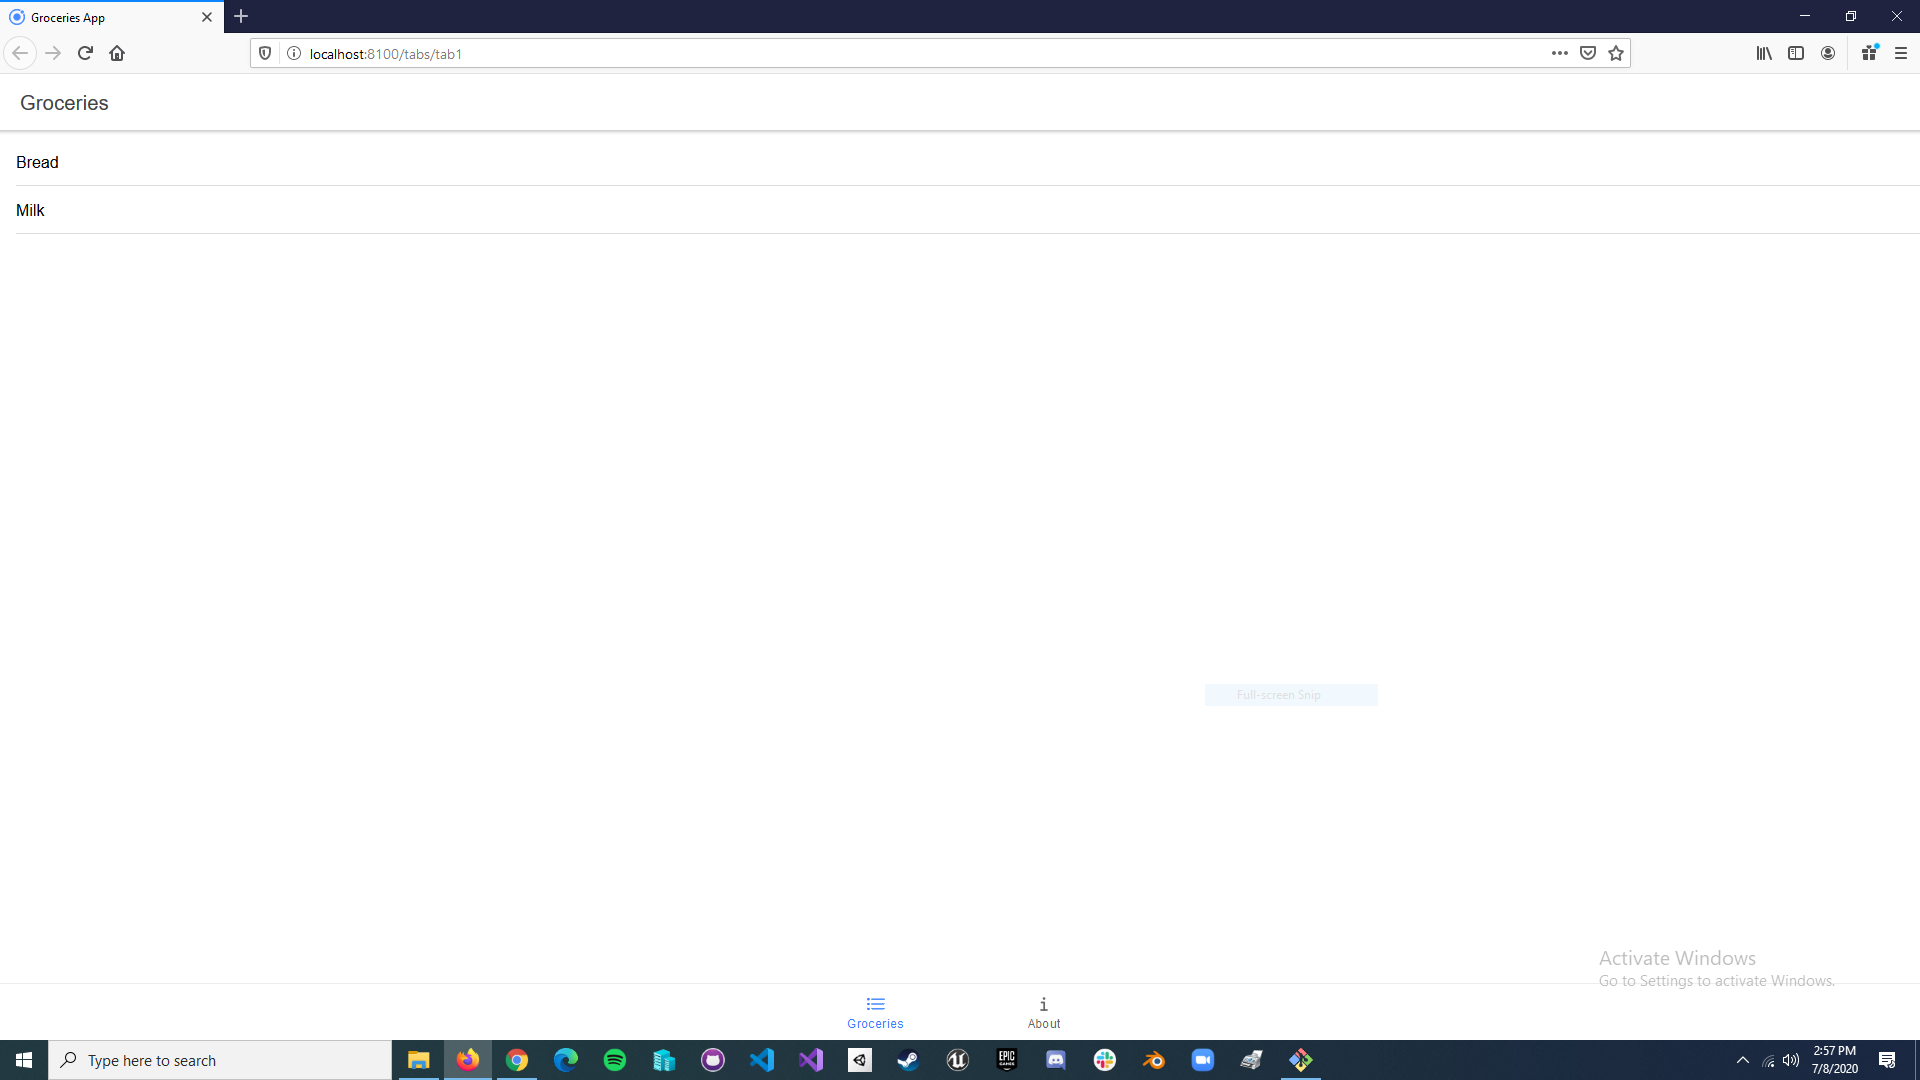
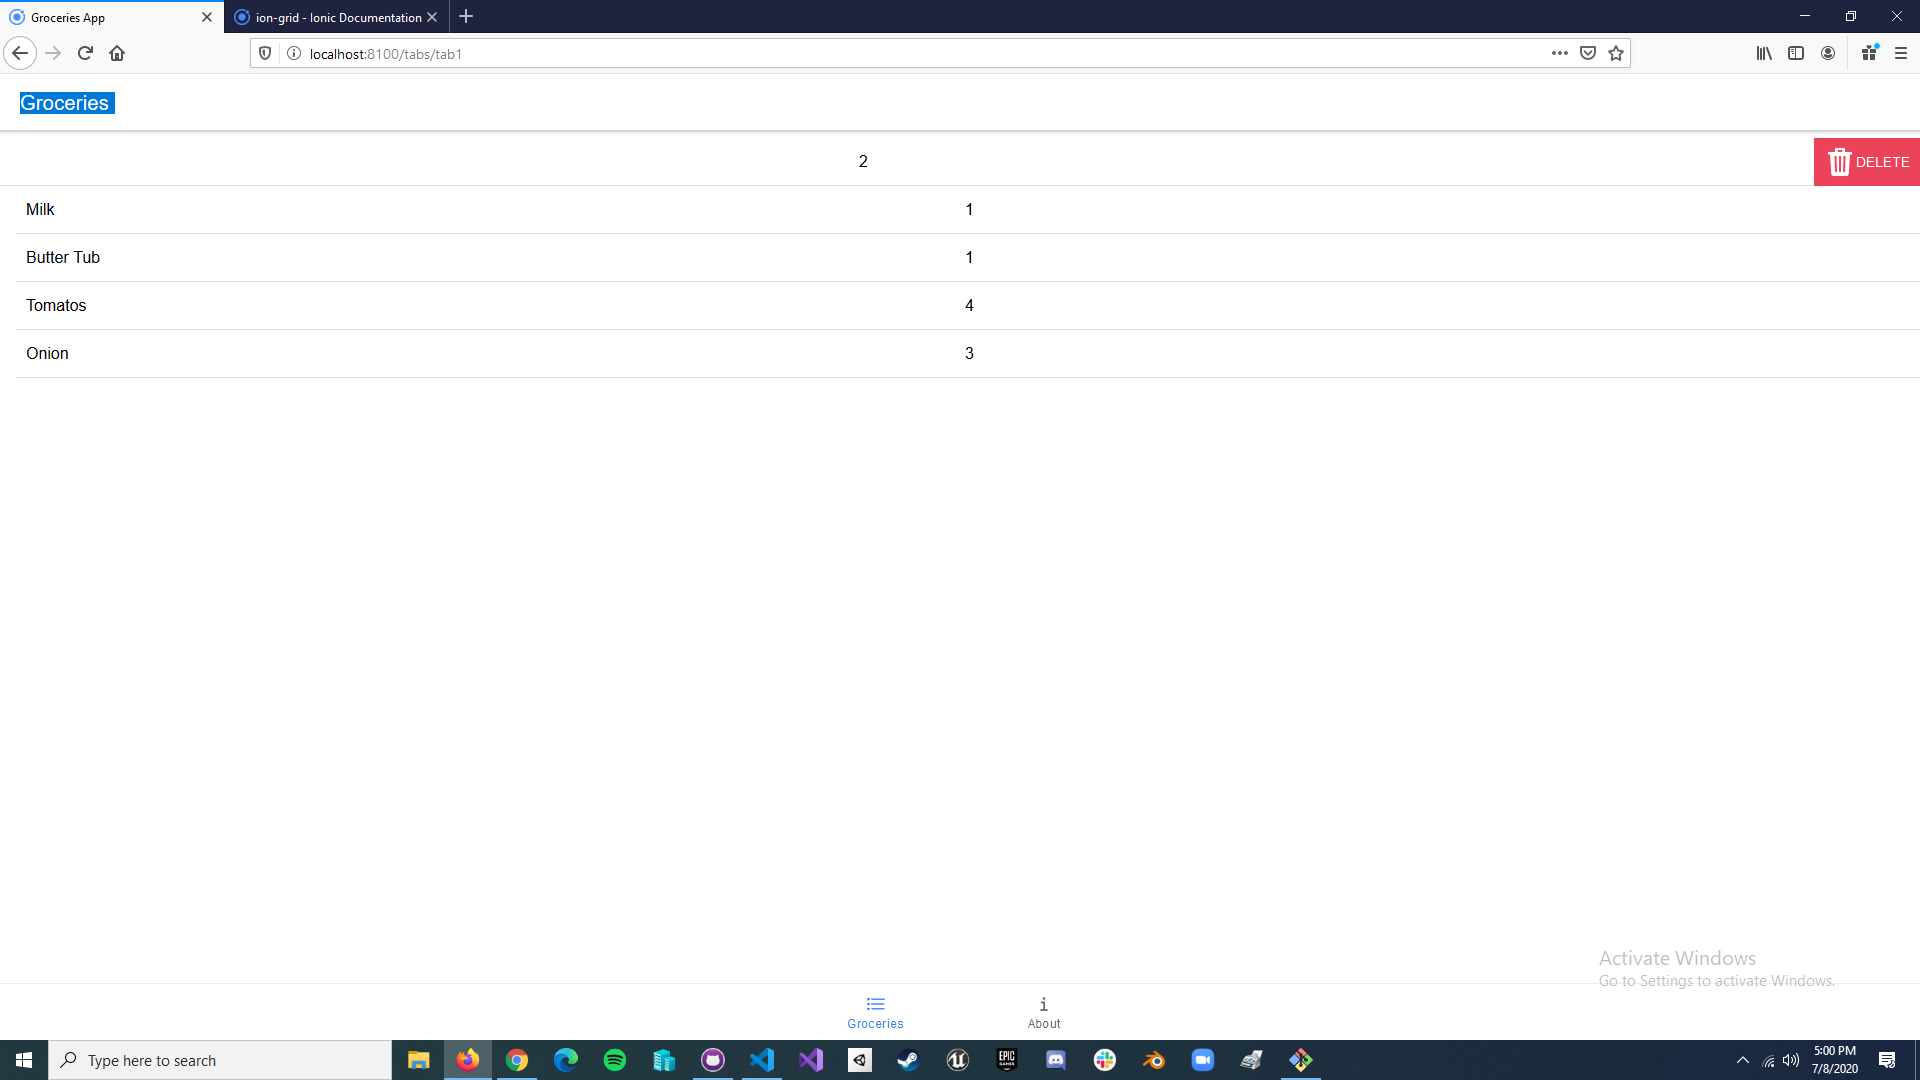
Finished assignment

diff --git a/src/app/tab1/tab1.page.html b/src/app/tab1/tab1.page.html
@@ -8,22 +8,114 @@
 
 <ion-content [fullscreen]="true">
   <ion-list>
-  <ion-item-sliding>
-    <ion-item>
-      <ion-label>Bread</ion-label>
-    </ion-item>
-    <ion-item-options side="end">
-      <ion-item-option (click)="remove(item)"><ion-icon name="trash-sharp" size="large"></ion-icon></ion-item-option>
-    </ion-item-options>
-  </ion-item-sliding>
+    <ion-item-sliding>
+      <ion-item>
+        <ion-grid>
+          <ion-row>
+            <ion-col>
+              <div class="grocery-item">Bread</div>
+            </ion-col>
+            <ion-col>
+              <div class="grocery-quantity">2</div>
+            </ion-col>
+          </ion-row>
+        </ion-grid>
+      </ion-item>
 
-  <ion-item-sliding>
-    <ion-item>
-      <ion-label>Milk</ion-label>
-    </ion-item>
-    <ion-item-options side="end">
-      <ion-item-option (click)="remove(item)"><ion-icon name="trash-sharp" size="large"></ion-icon></ion-item-option>
-    </ion-item-options>
-  </ion-item-sliding>
-</ion-list>
+      <ion-item-options side="end">
+        <ion-item-option (click)="remove(item)" color="danger">
+          <ion-icon name="trash-sharp" size="large"></ion-icon>
+          DELETE
+        </ion-item-option>
+      </ion-item-options>
+    </ion-item-sliding>
+
+    <ion-item-sliding>
+      <ion-item>
+        <ion-grid>
+          <ion-row>
+            <ion-col>
+              <div class="grocery-item">Milk</div>
+            </ion-col>
+            <ion-col>
+              <div class="grocery-item">1</div>
+            </ion-col>
+          </ion-row>
+        </ion-grid>
+      </ion-item>
+
+      <ion-item-options side="end">
+        <ion-item-option (click)="remove(item)" color="danger">
+          <ion-icon name="trash-sharp" size="large"></ion-icon>
+          DELETE
+        </ion-item-option>
+      </ion-item-options>
+    </ion-item-sliding>
+
+    <ion-item-sliding>
+      <ion-item>
+        <ion-grid>
+          <ion-row>
+            <ion-col>
+              <div class="grocery-item">Butter Tub</div>
+            </ion-col>
+            <ion-col>
+              <div class="grocery-item">1</div>
+            </ion-col>
+          </ion-row>
+        </ion-grid>
+      </ion-item>
+
+      <ion-item-options side="end">
+        <ion-item-option (click)="remove(item)" color="danger">
+          <ion-icon name="trash-sharp" size="large"></ion-icon>
+          DELETE
+        </ion-item-option>
+      </ion-item-options>
+    </ion-item-sliding>
+
+    <ion-item-sliding>
+      <ion-item>
+        <ion-grid>
+          <ion-row>
+            <ion-col>
+              <div class="grocery-item">Tomatos</div>
+            </ion-col>
+            <ion-col>
+              <div class="grocery-item">4</div>
+            </ion-col>
+          </ion-row>
+        </ion-grid>
+      </ion-item>
+
+      <ion-item-options side="end">
+        <ion-item-option (click)="remove(item)" color="danger">
+          <ion-icon name="trash-sharp" size="large"></ion-icon>
+          DELETE
+        </ion-item-option>
+      </ion-item-options>
+    </ion-item-sliding>
+
+    <ion-item-sliding>
+      <ion-item>
+        <ion-grid>
+          <ion-row>
+            <ion-col>
+              <div class="grocery-item">Onion</div>
+            </ion-col>
+            <ion-col>
+              <div class="grocery-item">3</div>
+            </ion-col>
+          </ion-row>
+        </ion-grid>
+      </ion-item>
+
+      <ion-item-options side="end">
+        <ion-item-option (click)="remove(item)" color="danger">
+          <ion-icon name="trash-sharp" size="large"></ion-icon>
+          DELETE
+        </ion-item-option>
+      </ion-item-options>
+    </ion-item-sliding>
+  </ion-list>
 </ion-content>

diff --git a/src/app/tab2/tab2.page.html b/src/app/tab2/tab2.page.html
@@ -7,8 +7,10 @@
 </ion-header>
 
 <ion-content [fullscreen]="true">
-    <div class="container" style="margin: auto; padding: auto;">
-      <h2>Dakoata Tyson</h2>
-      <h3>ID: 0910240</h3>
-    </div>
+  <ion-card>
+    <ion-card-content>
+      <ion-card-title>Dakoata Tyson</ion-card-title>
+      <ion-card-subtitle>0910240</ion-card-subtitle>
+    </ion-card-content>
+  </ion-card>
 </ion-content>

diff --git a/src/app/tab2/tab2.page.scss b/src/app/tab2/tab2.page.scss
@@ -1,0 +1,3 @@
+ion-card-title, ion-card-subtitle{
+    text-align: center;
+}
